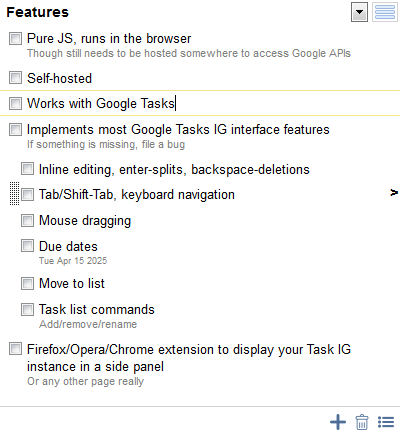
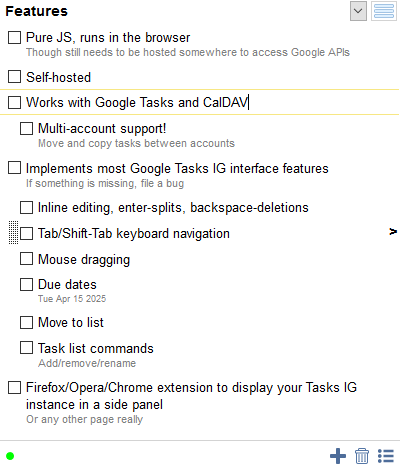
Edited readme.md

diff --git a/readme.md b/readme.md
@@ -12,9 +12,11 @@ This project reimplements everything in that frontend from scratch. It uses Goog
 ### Features
 * Runs in the browser, locally or self-hosted (for Google Tasks)
 * Works with Google Tasks and CalDAV
-* Implements most Google Tasks IG interface features: inline editing, enter-splits, backspace-deletions, tab/shift-tab, keyboard navigation, move to list, task list commands. If something is missing, file an issue.
+* Multi-account support, moving and copying tasks between accounts
+* Implements most Google Tasks IG interface features: inline editing, enter-splits, backspace-deletions, tab/shift-tab, keyboard navigation, move to list, task list commands, undelete. If something is missing, file an issue.
 * Async requests, fast UI with neat activity indicator
 * Export tasks
+
 
 ### Runs as a:
 
@@ -59,10 +61,15 @@ Just double-click `index.html` or [access it on Github](https://himselfv.github.
 
 You can put your self-hosted instance in a Firefox sidebar instead of a browser-hosted copy. Install the extension in the `webpanel` folder and set the URL in the options.
 
+#### Speed up self-hosted version
+
+* Enable etags and long caching of all js/css/resources to avoid repeated requests
+* Compile Tasks IG with `make min` and host minified version: all JS merged into a single file (harder to debug).
+
 
 ### CalDAV
 
-CalDAV Tasks are now mostly supported!
+CalDAV Tasks are now supported!
 
 * Work in all environments, including from [here on GitHub](https://himselfv.github.io/tasks-ig/)
 * Subtasks via RELATED-TO, the most supported way
@@ -84,7 +91,7 @@ If your Tasks IG instance is hosted on a different server than your CalDAV, requ
 * You also need to respond dynamically to `Access-Control-Request-Headers` and return `Access-Control-Allow-Headers:` with requested headers specifically; the browsers won't be satisfied with '*' for some headers even in non-`withCredentials` mode.
 * `Access-Control-Max-Age: 600` to enable at least some caching of OPTION requests.
 
-#### How to speed up DAV
+#### Speed up DAV
 
 1. Disable Service Discovery and provide a direct URL in account settings => -1 request.
 2. If you're using HTTPS, switch your server from Digest to Basic auth => -1 request. Digest auth unavoidably starts with a 403. Warning: For non-encrypted HTTP, Basic auth is unsafe.
@@ -92,13 +99,11 @@ If your Tasks IG instance is hosted on a different server than your CalDAV, requ
 
 
 ### Google Tasks
-Google only allows third-party apps to access Tasks either from a Chrome extension, or if your self-host and configure Google API keys. For Chrome extensions see "Extensions".
+Google only allows third-party apps to access Tasks either from a Chrome extension, or if your self-host and configure Google API keys. For Chrome, just install the extension. See "Extensions".
 
 For self-hosting:
 
-**Plan A:**
-
-1. You need a domain.
+1. You need a domain. Google Tasks requires having an origin hostname.
 
 2. Upload the contents (excluding docs and extension) under some URL on your server.
 
@@ -108,12 +113,20 @@ For self-hosting:
 
 5. Access the URL and press "Authorize with Google". (The local storage version should work from step 2).
 
-Why all these complications? Google Tasks backend requires having an origin hostname.
-
 **Plan B:**
 
 * Find someone who hosts it and use their instance (if you trust them).
 
+
+### FAQ
+
+**Q:** Can/should I use this on mobile?
+
+**A:** You can, but there are better clients both for Google Tasks and for DAV (for example, [Tasks.org](https://f-droid.org/ru/packages/org.tasks/)). Tasks IG is mostly meant for a browser/sidebar.
+
+**Q:** I accidentally a task, can I undelete it?
+
+**A:** Only in Google Tasks. Check "Show deleted tasks" in Options. To restore a deleted task, simply edit it and save. Remember to disable "Show deleted tasks" later; this is a last ditch effort, not a workable mode.
 
 
 ### License and attribution
